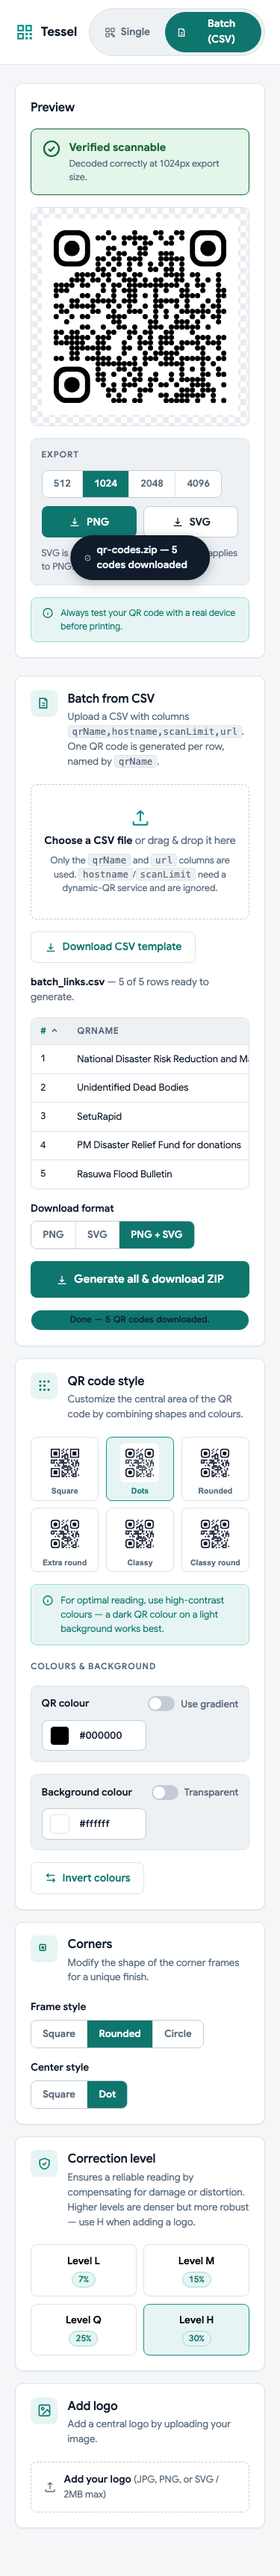
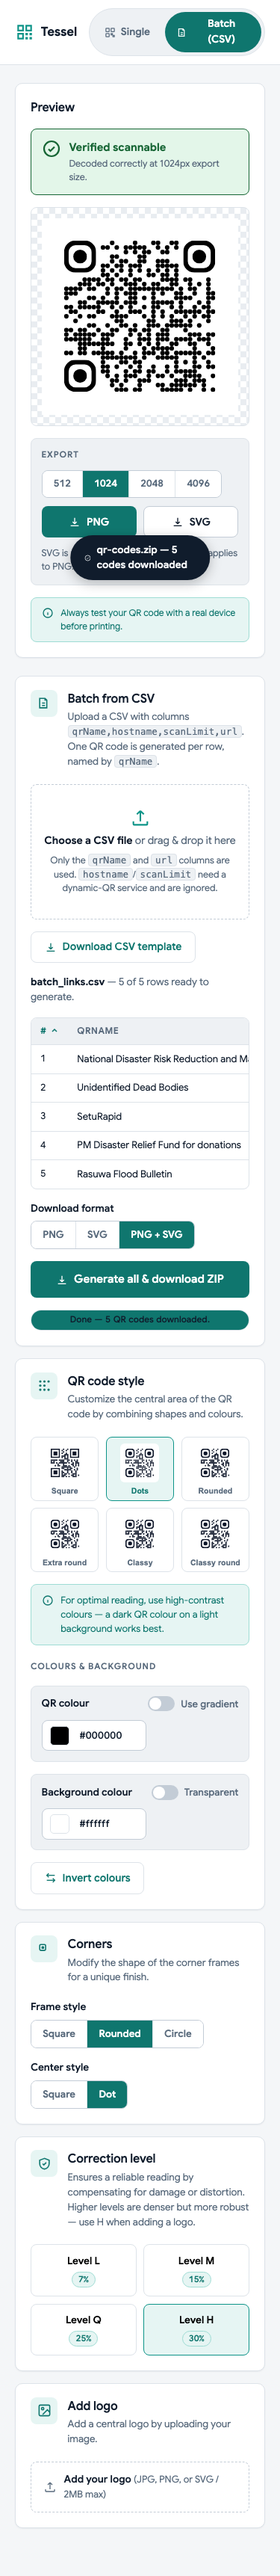
QA audit fixes: XSS, ISO quiet zone, guideline warnings, dedupe, SRI
- Security: CSV filename reached batch-summary via innerHTML (XSS);
  now built with DOM APIs. Added SRI integrity hashes to all three
  pinned CDN scripts (qr-code-styling hash verified against the npm
  package copy).
- Guidelines (ISO/IEC 18004): quiet zone was ~1.3 modules; now computed
  from the symbol version via a byte-capacity table to guarantee >= 4
  modules in both the web app and CLI. Added light-on-dark and
  transparent-background cautions to the verified badge, a density
  warning for content over 200 chars, and capped the logo at 40%.
- Dedupe: normalizeUrl/safeFilename extracted to js/shared.js (used by
  browser and CLI), download-anchor and ECC-toggle code unified.
- Fixes: downloads disabled when content is empty; radio semantics
  (role/aria-checked) added to ECC cards and all segmented groups.
- Tests: 4 new regressions (quiet zone, inverted caution, empty-content
  guard, hostile CSV filename); batch output regenerated and re-verified.

Changed region(s): [[0.176, 0.0932, 0.8213, 0.1553]]

diff --git a/js/app.js b/js/app.js
@@ -2,6 +2,8 @@
 (() => {
   "use strict";
 
+  const { normalizeUrl, safeFilename, quietZoneMargin, moduleCount } = window.Tessel;
+
   // ---------- State ----------
   const state = {
     content: "https://example.com",
@@ -41,7 +43,8 @@
       height: size,
       type: "svg",
       data: data || " ",
-      margin: Math.round(size * 0.04),
+      // ISO/IEC 18004: quiet zone of at least 4 modules on every side
+      margin: quietZoneMargin(size, data || " ", state.ecc),
       qrOptions: { errorCorrectionLevel: state.ecc },
       dotsOptions: { type: state.dotsType },
       backgroundOptions: {
@@ -116,6 +119,29 @@
     $("scan-advice").textContent = advice;
   }
 
+  // Guideline cautions that apply even when the code decodes: ZXing reads
+  // inverted codes (tryInvert), but many scanner apps only handle
+  // dark-on-light, and transparency depends on the surface behind the code.
+  function relativeLuminance(hex) {
+    const [r, g, b] = [1, 3, 5]
+      .map((i) => parseInt(hex.slice(i, i + 2), 16) / 255)
+      .map((c) => (c <= 0.03928 ? c / 12.92 : ((c + 0.055) / 1.055) ** 2.4));
+    return 0.2126 * r + 0.7152 * g + 0.0722 * b;
+  }
+
+  function guidelineCaution() {
+    const dotsLum = state.dotsGradient
+      ? (relativeLuminance(state.dotsColor) + relativeLuminance(state.dotsColor2)) / 2
+      : relativeLuminance(state.dotsColor);
+    if (state.bgTransparent) {
+      return " Note: with a transparent background, place the code on a light surface.";
+    }
+    if (dotsLum > relativeLuminance(state.bgColor)) {
+      return " Caution: light-on-dark codes fail in some scanner apps — the guideline is dark modules on a light background.";
+    }
+    return "";
+  }
+
   async function loadZxing() {
     if (zxingReader || zxingFailed) return zxingReader;
     try {
@@ -156,7 +182,7 @@
       clearTimeout(checkingTimer);
       const decoded = results.length && results[0].isValid ? results[0].text : null;
       if (decoded === (state.content || " ")) {
-        setBadge("ok", "Verified scannable", `Decoded correctly at ${state.size}px export size.`);
+        setBadge("ok", "Verified scannable", `Decoded correctly at ${state.size}px export size.${guidelineCaution()}`);
       } else {
         setBadge("bad", "Hard to scan", "Increase contrast, reduce the logo size, or raise the correction level.");
       }
@@ -208,8 +234,25 @@
   });
 
   // ---------- Content inputs ----------
+  function syncContentState() {
+    const empty = !state.content;
+    $("btn-download-png").disabled = empty;
+    $("btn-download-svg").disabled = empty;
+    // Dense-code guideline: long content means small modules that scan
+    // poorly in print — surface it before the user finds out at the printer.
+    const hint = $("content-hint");
+    if (!empty && state.content.length > 200) {
+      const n = moduleCount(state.content, state.ecc);
+      hint.textContent = `Long content produces a dense ${n}×${n} code that is harder to scan in print — consider a shorter URL.`;
+      hint.hidden = false;
+    } else {
+      hint.hidden = true;
+    }
+  }
+
   $("qr-content").addEventListener("input", (e) => {
     state.content = e.target.value.trim();
+    syncContentState();
     refreshPreview();
   });
 
@@ -283,11 +326,20 @@
   bindSegmented("batch-format", "format", (v) => { state.batchFormat = v; });
 
   // ---------- ECC ----------
+  function setEcc(level) {
+    state.ecc = level;
+    document.querySelectorAll(".ecc-card").forEach((c) => {
+      const active = c.dataset.ecc === level;
+      c.classList.toggle("active", active);
+      c.setAttribute("aria-checked", String(active));
+    });
+    syncContentState();
+  }
+
   $("ecc-grid").addEventListener("click", (e) => {
     const card = e.target.closest(".ecc-card");
     if (!card) return;
-    document.querySelectorAll(".ecc-card").forEach((c) => c.classList.toggle("active", c === card));
-    state.ecc = card.dataset.ecc;
+    setEcc(card.dataset.ecc);
     refreshPreview();
   });
 
@@ -307,11 +359,7 @@
       $("logo-chip").classList.remove("hidden");
       $("logo-options").classList.remove("hidden");
       // A logo hides modules; H gives the most headroom to stay scannable
-      if (state.ecc !== "H") {
-        state.ecc = "H";
-        document.querySelectorAll(".ecc-card").forEach((c) =>
-          c.classList.toggle("active", c.dataset.ecc === "H"));
-      }
+      if (state.ecc !== "H") setEcc("H");
       refreshPreview();
     };
     reader.readAsDataURL(file);
@@ -337,8 +385,12 @@
   });
 
   // ---------- Downloads (single) ----------
-  function safeFilename(name) {
-    return (name || "").trim().replace(/[\\/:*?"<>|]/g, "").replace(/\s+/g, " ").slice(0, 120);
+  function triggerDownload(blob, name) {
+    const a = document.createElement("a");
+    a.href = URL.createObjectURL(blob);
+    a.download = name;
+    a.click();
+    URL.revokeObjectURL(a.href);
   }
 
   function singleFileName() {
@@ -386,12 +438,7 @@
   // ---------- Batch: CSV template ----------
   $("btn-template").addEventListener("click", () => {
     const csv = "qrName,hostname,scanLimit,url\nMy First QR,,,https://example.com\nMy Second QR,,,https://example.org\n";
-    const blob = new Blob([csv], { type: "text/csv" });
-    const a = document.createElement("a");
-    a.href = URL.createObjectURL(blob);
-    a.download = "qr-batch-template.csv";
-    a.click();
-    URL.revokeObjectURL(a.href);
+    triggerDownload(new Blob([csv], { type: "text/csv" }), "qr-batch-template.csv");
   });
 
   // ---------- Batch: CSV upload ----------
@@ -413,12 +460,6 @@
   csvInput.addEventListener("change", (e) => {
     if (e.target.files[0]) parseCsvFile(e.target.files[0]);
   });
-
-  function normalizeUrl(url) {
-    const trimmed = (url || "").trim();
-    if (!trimmed) return "";
-    return /^[a-zA-Z][a-zA-Z0-9+.-]*:/.test(trimmed) ? trimmed : `https://${trimmed}`;
-  }
 
   function parseCsvFile(file) {
     Papa.parse(file, {
@@ -458,8 +499,13 @@
   function renderBatchPreview() {
     const rows = state.batchRows;
     const validCount = rows.filter((r) => r.valid).length;
-    $("batch-summary").innerHTML =
-      `<strong>${batchFileName}</strong> — ${validCount} of ${rows.length} row${rows.length === 1 ? "" : "s"} ready to generate.`;
+    // Build with DOM APIs: the file name is user-controlled and must never
+    // reach innerHTML (a file named "<img onerror=…>.csv" is valid on disk).
+    const summary = $("batch-summary");
+    summary.textContent = "";
+    const nameEl = document.createElement("strong");
+    nameEl.textContent = batchFileName;
+    summary.append(nameEl, ` — ${validCount} of ${rows.length} row${rows.length === 1 ? "" : "s"} ready to generate.`);
 
     // sorted view for the table only; generation keeps CSV order
     const view = [...rows].sort((a, b) => {
@@ -554,11 +600,7 @@
       bar.style.width = "100%";
       label.textContent = "Packaging ZIP…";
       const blob = await zip.generateAsync({ type: "blob" });
-      const a = document.createElement("a");
-      a.href = URL.createObjectURL(blob);
-      a.download = "qr-codes.zip";
-      a.click();
-      URL.revokeObjectURL(a.href);
+      triggerDownload(blob, "qr-codes.zip");
       label.textContent = `Done — ${rows.length} QR code${rows.length === 1 ? "" : "s"} downloaded.`;
       showToast(`qr-codes.zip — ${rows.length} code${rows.length === 1 ? "" : "s"} downloaded`);
     } catch (err) {
@@ -569,5 +611,6 @@
   });
 
   // ---------- Init ----------
+  syncContentState();
   refreshPreview();
 })();

diff --git a/index.html b/index.html
@@ -53,6 +53,7 @@
           <div class="field">
             <label for="qr-content">URL or text</label>
             <textarea id="qr-content" rows="2" placeholder="https://example.com" spellcheck="false">https://example.com</textarea>
+            <p class="hint" id="content-hint" hidden></p>
           </div>
           <div class="field">
             <label for="qr-name">File name <span class="hint-inline">(optional, used for downloads)</span></label>
@@ -101,10 +102,10 @@
             </div>
             <div class="field">
               <span class="label">Download format</span>
-              <div class="segmented" id="batch-format">
-                <button type="button" class="seg-btn" data-format="png">PNG</button>
-                <button type="button" class="seg-btn" data-format="svg">SVG</button>
-                <button type="button" class="seg-btn active" data-format="both">PNG + SVG</button>
+              <div class="segmented" id="batch-format" role="radiogroup" aria-label="Batch download format">
+                <button type="button" class="seg-btn" role="radio" aria-checked="false" data-format="png">PNG</button>
+                <button type="button" class="seg-btn" role="radio" aria-checked="false" data-format="svg">SVG</button>
+                <button type="button" class="seg-btn active" role="radio" aria-checked="true" data-format="both">PNG + SVG</button>
               </div>
             </div>
             <button class="btn btn-primary btn-lg" id="btn-batch-generate" type="button">
@@ -199,17 +200,17 @@
         <div class="card-body">
           <div class="field">
             <span class="label">Frame style</span>
-            <div class="segmented" id="corner-square-style">
-              <button type="button" class="seg-btn" data-value="square" aria-label="Square frame">Square</button>
-              <button type="button" class="seg-btn active" data-value="extra-rounded" aria-label="Rounded frame">Rounded</button>
-              <button type="button" class="seg-btn" data-value="dot" aria-label="Circle frame">Circle</button>
+            <div class="segmented" id="corner-square-style" role="radiogroup" aria-label="Corner frame style">
+              <button type="button" class="seg-btn" role="radio" aria-checked="false" data-value="square">Square</button>
+              <button type="button" class="seg-btn active" role="radio" aria-checked="true" data-value="extra-rounded">Rounded</button>
+              <button type="button" class="seg-btn" role="radio" aria-checked="false" data-value="dot">Circle</button>
             </div>
           </div>
           <div class="field">
             <span class="label">Center style</span>
-            <div class="segmented" id="corner-dot-style">
-              <button type="button" class="seg-btn" data-value="square">Square</button>
-              <button type="button" class="seg-btn active" data-value="dot">Dot</button>
+            <div class="segmented" id="corner-dot-style" role="radiogroup" aria-label="Corner center style">
+              <button type="button" class="seg-btn" role="radio" aria-checked="false" data-value="square">Square</button>
+              <button type="button" class="seg-btn active" role="radio" aria-checked="true" data-value="dot">Dot</button>
             </div>
           </div>
         </div>
@@ -227,11 +228,11 @@
           </div>
         </div>
         <div class="card-body">
-          <div class="ecc-grid" id="ecc-grid">
-            <button type="button" class="ecc-card" data-ecc="L"><span class="ecc-name">Level L</span><span class="ecc-pct">7%</span></button>
-            <button type="button" class="ecc-card" data-ecc="M"><span class="ecc-name">Level M</span><span class="ecc-pct">15%</span></button>
-            <button type="button" class="ecc-card" data-ecc="Q"><span class="ecc-name">Level Q</span><span class="ecc-pct">25%</span></button>
-            <button type="button" class="ecc-card active" data-ecc="H"><span class="ecc-name">Level H</span><span class="ecc-pct">30%</span></button>
+          <div class="ecc-grid" id="ecc-grid" role="radiogroup" aria-label="Error correction level">
+            <button type="button" class="ecc-card" role="radio" aria-checked="false" data-ecc="L"><span class="ecc-name">Level L</span><span class="ecc-pct">7%</span></button>
+            <button type="button" class="ecc-card" role="radio" aria-checked="false" data-ecc="M"><span class="ecc-name">Level M</span><span class="ecc-pct">15%</span></button>
+            <button type="button" class="ecc-card" role="radio" aria-checked="false" data-ecc="Q"><span class="ecc-name">Level Q</span><span class="ecc-pct">25%</span></button>
+            <button type="button" class="ecc-card active" role="radio" aria-checked="true" data-ecc="H"><span class="ecc-name">Level H</span><span class="ecc-pct">30%</span></button>
           </div>
         </div>
       </section>
@@ -264,7 +265,9 @@
           <div class="field-row hidden" id="logo-options">
             <div class="field">
               <label for="logo-size">Logo size <span class="hint-inline" id="logo-size-val">30%</span></label>
-              <input type="range" id="logo-size" min="15" max="45" value="30" />
+              <!-- capped at 40%: beyond that the logo out-obscures what
+                   ECC H (30% recovery) can compensate for -->
+              <input type="range" id="logo-size" min="15" max="40" value="30" />
             </div>
             <label class="switch">
               <input type="checkbox" id="logo-hide-dots" checked />
@@ -324,9 +327,12 @@
 
   <div class="toast" id="toast" role="status" aria-live="polite"></div>
 
-  <script src="https://cdn.jsdelivr.net/npm/qr-code-styling@1.9.2/lib/qr-code-styling.js"></script>
-  <script src="https://cdn.jsdelivr.net/npm/papaparse@5.5.3/papaparse.min.js"></script>
-  <script src="https://cdn.jsdelivr.net/npm/jszip@3.10.1/dist/jszip.min.js"></script>
+  <!-- Pinned + SRI-hashed; the zxing-wasm decoder is loaded via dynamic
+       import in app.js, which cannot carry an integrity attribute. -->
+  <script src="https://cdn.jsdelivr.net/npm/qr-code-styling@1.9.2/lib/qr-code-styling.js" integrity="sha384-P7sw4KeI1SDhOs6wYFsBysIIHFqMTgG4y9vunEfL8ZuV0WhnHsh9MRu9Rso17MtY" crossorigin="anonymous"></script>
+  <script src="https://cdn.jsdelivr.net/npm/papaparse@5.5.3/papaparse.min.js" integrity="sha384-Jd2/X5FXVKahwaY2nivvw4LfSTg9idSj8yNXWtT4qef0fHSYr6M7M8bJAfbFYoMc" crossorigin="anonymous"></script>
+  <script src="https://cdn.jsdelivr.net/npm/jszip@3.10.1/dist/jszip.min.js" integrity="sha384-+mbV2IY1Zk/X1p/nWllGySJSUN8uMs+gUAN10Or95UBH0fpj6GfKgPmgC5EXieXG" crossorigin="anonymous"></script>
+  <script src="js/shared.js"></script>
   <script src="js/app.js"></script>
 </body>
 </html>

diff --git a/js/shared.js b/js/shared.js
@@ -1,0 +1,44 @@
+/* Tessel shared helpers — loaded by the web app (as window.Tessel) and by
+   the Node CLI (require/import). Keep this file dependency-free. */
+(function (root, factory) {
+  if (typeof module === "object" && module.exports) module.exports = factory();
+  else root.Tessel = factory();
+})(typeof globalThis !== "undefined" ? globalThis : this, function () {
+  "use strict";
+
+  // Byte-mode data capacity per version (1–40) for each error correction
+  // level, per ISO/IEC 18004. Used to predict the symbol's module count.
+  const BYTE_CAPACITY = {
+    L: [17, 32, 53, 78, 106, 134, 154, 192, 230, 271, 321, 367, 425, 458, 520, 586, 644, 718, 792, 858, 929, 1003, 1091, 1171, 1273, 1367, 1465, 1528, 1628, 1732, 1840, 1952, 2068, 2188, 2303, 2431, 2563, 2699, 2809, 2953],
+    M: [14, 26, 42, 62, 84, 106, 122, 152, 180, 213, 251, 287, 331, 362, 412, 450, 504, 560, 624, 666, 711, 779, 857, 911, 997, 1059, 1125, 1190, 1264, 1370, 1452, 1538, 1628, 1722, 1809, 1911, 1989, 2099, 2213, 2331],
+    Q: [11, 20, 32, 46, 60, 74, 86, 108, 130, 151, 177, 203, 241, 258, 292, 322, 364, 394, 442, 482, 509, 565, 611, 661, 715, 751, 805, 868, 908, 982, 1030, 1112, 1168, 1228, 1283, 1351, 1423, 1499, 1579, 1663],
+    H: [7, 14, 24, 34, 44, 58, 64, 84, 98, 119, 137, 155, 177, 194, 220, 250, 280, 310, 338, 382, 403, 439, 461, 511, 535, 593, 625, 658, 698, 742, 790, 842, 898, 958, 983, 1051, 1093, 1139, 1219, 1273],
+  };
+
+  function normalizeUrl(url) {
+    const trimmed = (url || "").trim();
+    if (!trimmed) return "";
+    return /^[a-zA-Z][a-zA-Z0-9+.-]*:/.test(trimmed) ? trimmed : `https://${trimmed}`;
+  }
+
+  function safeFilename(name) {
+    return (name || "").trim().replace(/[\\/:*?"<>|]/g, "").replace(/\s+/g, " ").slice(0, 120);
+  }
+
+  // Modules per side of the QR symbol that will encode `data` at `ecc`.
+  function moduleCount(data, ecc) {
+    const bytes = new TextEncoder().encode(data || " ").length;
+    const caps = BYTE_CAPACITY[ecc] || BYTE_CAPACITY.H;
+    const version = caps.findIndex((c) => c >= bytes) + 1;
+    return version === 0 ? 177 : 17 + 4 * version;
+  }
+
+  // ISO/IEC 18004 requires a quiet zone of at least 4 modules on every side.
+  // Returns the pixel margin that gives exactly 4 modules of quiet zone when
+  // the symbol plus both quiet zones fill a canvas of `size` pixels.
+  function quietZoneMargin(size, data, ecc) {
+    return Math.ceil((4 * size) / (moduleCount(data, ecc) + 8));
+  }
+
+  return { BYTE_CAPACITY, normalizeUrl, safeFilename, moduleCount, quietZoneMargin };
+});

diff --git a/README.md b/README.md
@@ -10,6 +10,7 @@ A QR code generator with single and batch (CSV) generation, styled QR designs, a
 - **Batch from CSV** — upload a CSV (`qrName,hostname,scanLimit,url`), preview the rows, and download every QR code in one ZIP (PNG, SVG, or both). A template CSV is downloadable in-app.
 - **Design settings** — module shapes (square, dots, rounded, classy…), solid or gradient colours, transparent background, invert, corner frame/center styles, error correction level (L/M/Q/H), central logo upload with size control, and export resolution up to 4096px.
 - **Live scannability check** — every preview is decoded with ZXing in the browser; a badge tells you whether the current design actually scans before you print it.
+- **Guideline enforcement** — quiet zone of ≥4 modules per ISO/IEC 18004 (computed from the symbol version, in both the app and the CLI), a caution on inverted light-on-dark codes and transparent backgrounds, a density warning for long content, and a logo cap at 40% so ECC H can still recover the obscured modules.
 
 ## Run the app
 
